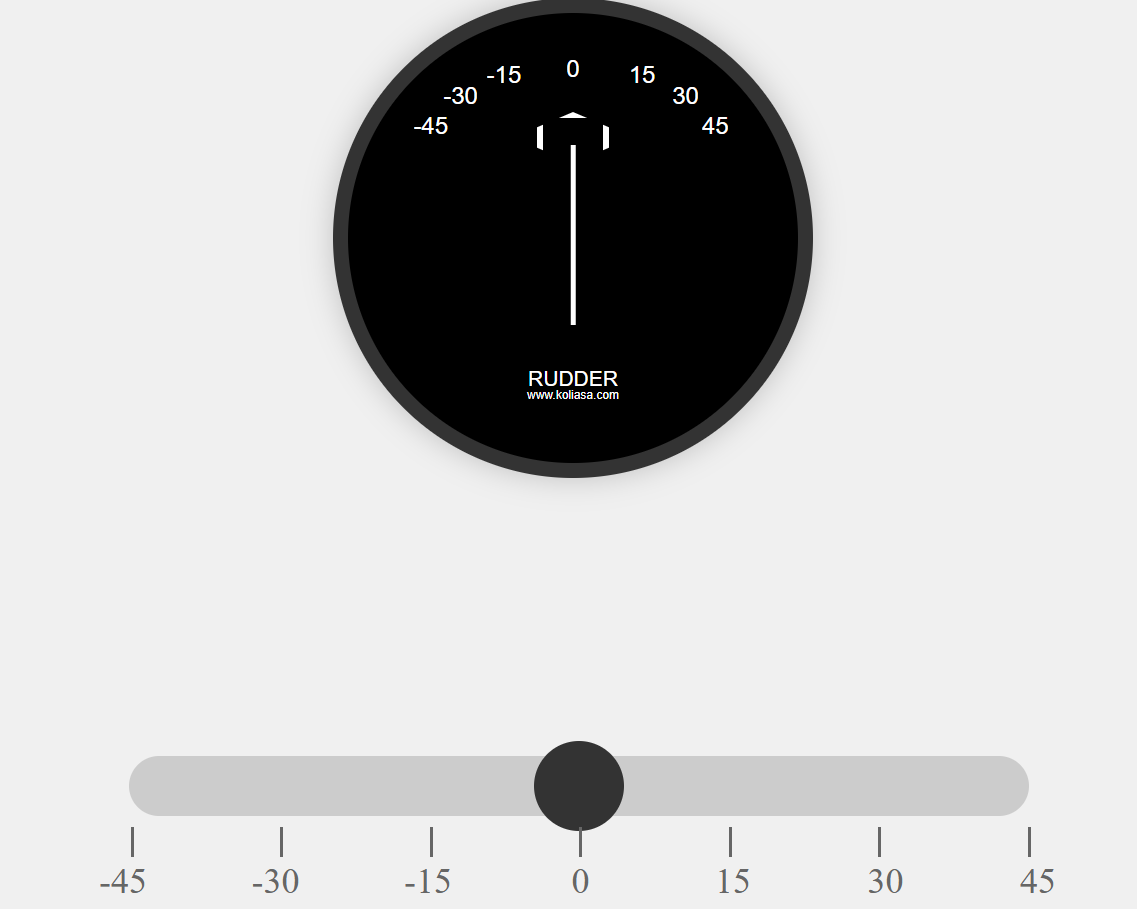
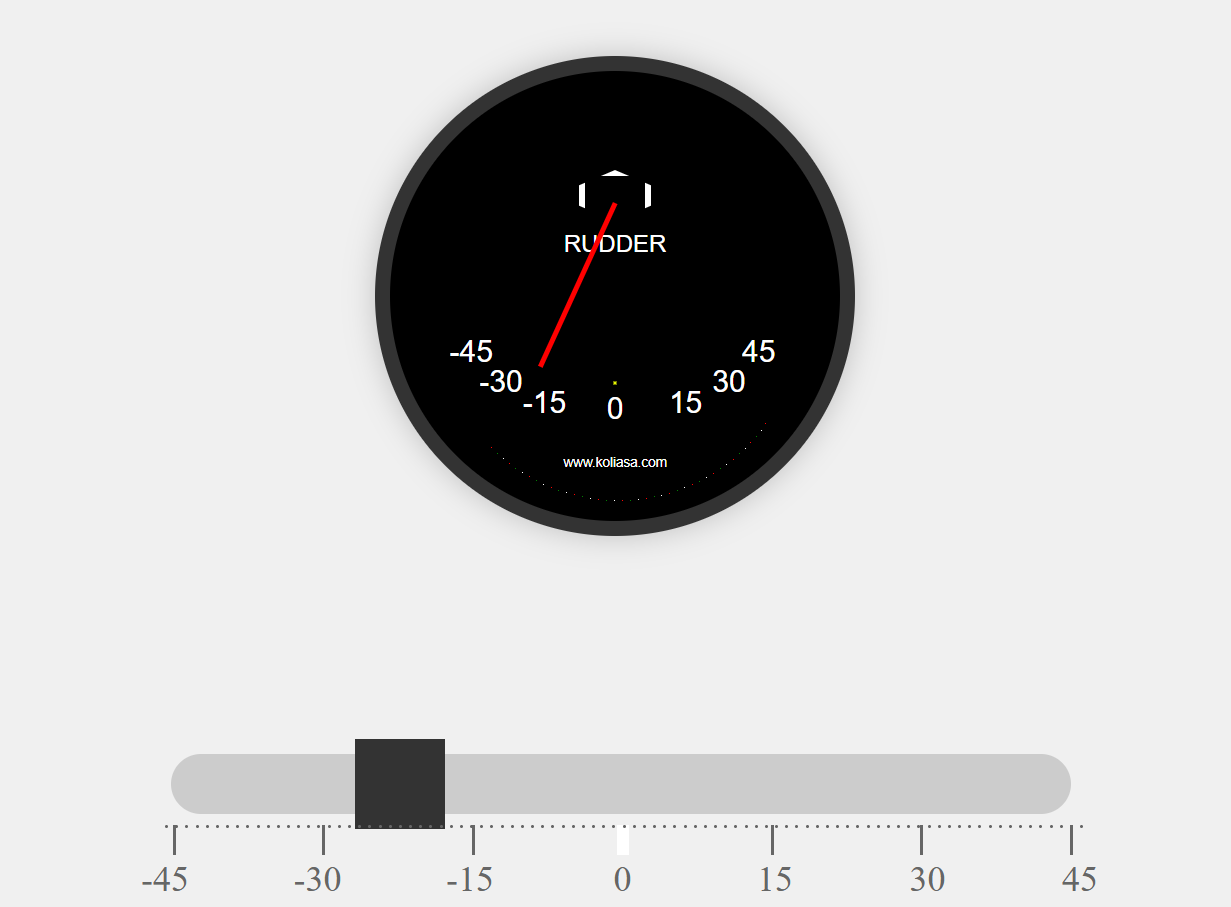
List of Changes
Color-Coded Ticks: Added colored ticks on the rudder scale
Red Ticks: Indicate negative angles (values less than 0).
Green Ticks: Indicate positive angles (values greater than 0).
Needle Color Based on Angle:
Red Needle: When the angle is less than -1° (negative values).
Green Needle: When the angle is greater than 1° (positive values).
White Needle: When the angle is between -1° and 1° (near zero).
Tick Color and Rotation: The ticks on the rudder scale are placed based on calculated angles and are color-coded as red for negative and green for positive values.
Dynamic Needle Rotation: The needle rotates dynamically as the slider moves, and the color of the needle changes based on the slider value, reflecting the direction and magnitude of the rudder input.

Dot Size Adjustment:
Increased the size of the dots (rudder-point) and slider dots (rudder-slider-dot) for better visibility.
Slider Tick Mark and Dot Placement:
Added dots for every degree on the slider.
Adjusted the position of slider ticks and numbers according to the range.
Scale Markings and Colors:
Marked scale ticks with different colors (red, green, white) for alternating points.
Needle Rotation and Color Change:
Implemented dynamic rotation of the rudder needle based on the slider value.
Added color change logic for the needle (red for negative values, green for positive, and white for neutral).
Element Creation and Styling:
Created and appended elements (div) for points, ticks, and numbers dynamically
[…]

diff --git a/script.js b/script.js
@@ -1,7 +1,28 @@
 const rudderScale = document.querySelector(".rudder-scale");
 const rudderR = 60;
-const rudderO = 7.5;
+const rudderO = 8;
 const rudderNeedle = document.querySelector(".rudder-needle");
+
+const totalPoints = 40;
+const verticalOffset = 5;
+
+for (let i = 0; i < totalPoints; i++) {
+  const point = document.createElement("div");
+  point.classList.add("rudder-point");
+
+  const angle = i * (100 / (totalPoints - 1)) - 45;
+  const x = rudderR * Math.sin((angle * Math.PI) / 180);
+  const y = rudderR * Math.cos((angle * Math.PI) / 180);
+
+  if (i % 3 === 0) point.classList.add("rudder-point-red");
+  else if (i % 3 === 1) point.classList.add("rudder-point-green");
+  else point.classList.add("rudder-point-white");
+
+  point.style.left = `calc(50% + ${x}px)`;
+  point.style.top = `calc(50% + ${y + verticalOffset}px)`;
+
+  rudderScale.appendChild(point);
+}
 
 for (let i = -45; i <= 45; i += 15) {
   const tick = document.createElement("div");
@@ -10,33 +31,28 @@ for (let i = -45; i <= 45; i += 15) {
   if (i < 0) tick.classList.add("red");
   if (i > 0) tick.classList.add("green");
 
-  if (i !== 0) {
-    tick.style.transform = `rotate(${i}deg) scaleX(-1)`;
-  } else {
-    tick.style.transform = `rotate(${i}deg)`;
-  }
-
+  tick.style.transform = `rotate(${i}deg)`;
   rudderScale.appendChild(tick);
 
   const number = document.createElement("div");
   number.classList.add("rudder-number");
-  number.textContent = i === 0 ? "0" : Math.abs(i);
-  let angle = (i * Math.PI) / 180;
-  let x = rudderR * Math.sin(angle);
-  let y = -rudderR * Math.cos(angle);
+  number.textContent = i;
+
+  const angle = (i * Math.PI) / 180;
+  const x = rudderR * Math.sin(angle);
+  const y = rudderR * Math.cos(angle);
   let ox = i === 0 ? 0 : i > 0 ? rudderO : -rudderO;
-  let oy = -4;
+  let oy = 4;
+
   if (Math.abs(i) === 45) {
     ox += i > 0 ? -2.5 : 2.5;
-    oy += 1.5;
+    oy -= 1.5;
   } else if (Math.abs(i) === 30) {
-    oy += 1;
+    oy -= 1;
   }
-  if (i < 0) {
-    number.textContent = `-${Math.abs(i)}`;
-  }
+
   number.style.left = 65 + x + ox + "px";
-  number.style.top = 65 + y + oy + "px";
+  number.style.top = 30 + y + oy + "px";
   rudderScale.appendChild(number);
 }
 
@@ -44,10 +60,17 @@ const rudderSlider = document.querySelector('input[type="range"]');
 const rudderSliderTicks = document.querySelector(".rudder-slider-ticks");
 const rudderSliderMin = -45;
 const rudderSliderMax = 45;
-const rudderSliderStep = 15;
+const rudderSliderStep = 1;
 const rudderSliderRange = rudderSliderMax - rudderSliderMin;
 
-for (let i = rudderSliderMin; i <= rudderSliderMax; i += rudderSliderStep) {
+for (let i = rudderSliderMin; i <= rudderSliderMax; i++) {
+  const tick = document.createElement("div");
+  tick.classList.add("rudder-slider-dot");
+  tick.style.left = ((i - rudderSliderMin) / rudderSliderRange) * 100 + "%";
+  rudderSliderTicks.appendChild(tick);
+}
+
+for (let i = rudderSliderMin; i <= rudderSliderMax; i += 15) {
   const tick = document.createElement("div");
   tick.classList.add("rudder-slider-tick");
   tick.style.left = ((i - rudderSliderMin) / rudderSliderRange) * 100 + "%";
@@ -56,13 +79,19 @@ for (let i = rudderSliderMin; i <= rudderSliderMax; i += rudderSliderStep) {
   number.classList.add("rudder-slider-number");
   number.textContent = i;
   number.style.left = ((i - rudderSliderMin) / rudderSliderRange) * 100 + "%";
+
   rudderSliderTicks.appendChild(tick);
   rudderSliderTicks.appendChild(number);
 }
 
 rudderSlider.addEventListener("input", function () {
   const sliderValue = this.value;
+
   rudderNeedle.style.transform = `translate(-50%, -100%) rotate(${
     sliderValue * -1
   }deg)`;
+
+  if (sliderValue < -1) rudderNeedle.style.backgroundColor = "#ff0000";
+  else if (sliderValue > 1) rudderNeedle.style.backgroundColor = "#00ff00";
+  else rudderNeedle.style.backgroundColor = "#ffffff";
 });

diff --git a/styles.css b/styles.css
@@ -17,6 +17,7 @@ body {
   position: relative;
   box-shadow: 0 0 10px rgba(0, 0, 0, 0.2);
   margin-bottom: 20px;
+  top: 20px;
 }
 
 .rudder-scale {
@@ -36,7 +37,7 @@ body {
 .rudder-number {
   position: absolute;
   color: #fff;
-  font-size: 8px;
+  font-size: 10px;
   font-family: sans-serif;
   white-space: nowrap;
   transform: translate(-50%, 0%);
@@ -82,12 +83,13 @@ body {
 }
 
 .rudder-rudder {
-  top: 105px;
+  top: 40px;
+  font-size: 8px;
 }
 
 .rudder-koliasa {
-  top: 112px;
-  font-size: 4px;
+  top: 115px;
+  font-size: 4.5px;
 }
 
 .rudder-slider-container {
@@ -112,7 +114,7 @@ input[type="range"]::-webkit-slider-thumb {
   -webkit-appearance: none;
   width: 30px;
   height: 30px;
-  border-radius: 50%;
+  border-radius: 0;
   background: #333;
   cursor: pointer;
 }
@@ -123,6 +125,16 @@ input[type="range"]::-webkit-slider-thumb {
   display: flex;
   justify-content: space-between;
   padding: 0 2.5px;
+}
+
+.rudder-slider-center-mark {
+  position: absolute;
+  left: 50%;
+  bottom: 0;
+  width: 4px;
+  height: 10px;
+  background-color: white;
+  transform: translateX(-50%);
 }
 
 .rudder-slider-tick {
@@ -139,4 +151,44 @@ input[type="range"]::-webkit-slider-thumb {
   position: absolute;
   bottom: -15px;
   transform: translateX(-50%);
+}
+
+.rudder-point {
+  width: 0.1px;
+  height: 0.1px;
+  border-radius: 50%;
+  background-color: black;
+  position: absolute;
+  margin: 0 1px;
+}
+
+.rudder-point-red {
+  background-color: red;
+}
+
+.rudder-point-green {
+  background-color: green;
+}
+
+.rudder-point-white {
+  background-color: white;
+}
+
+.rudder-slider-dot {
+  width: 1px;
+  height: 1px;
+  border-radius: 50%;
+  background-color: #666;
+  position: absolute;
+}
+
+.rudder-scale::after {
+  content: "";
+  position: absolute;
+  left: 50%;
+  top: 70%;
+  width: 1px;
+  height: 1px;
+  background-color: rgb(232, 248, 0);
+  transform: translateX(-50%) translateY(-50%);
 }

diff --git a/index.html b/index.html
@@ -1,5 +1,5 @@
 <!DOCTYPE html>
-<html lang="uk">
+<html lang="us">
   <head>
     <meta charset="UTF-8" />
     <meta name="viewport" content="width=device-width, initial-scale=1.0" />
@@ -17,7 +17,9 @@
     </div>
     <div class="rudder-slider-container">
       <input type="range" min="-45" max="45" value="0" step="0.1" />
-      <div class="rudder-slider-ticks"></div>
+      <div class="rudder-slider-ticks">
+        <div class="rudder-slider-center-mark"></div>
+      </div>
     </div>
     <script src="script.js"></script>
   </body>
